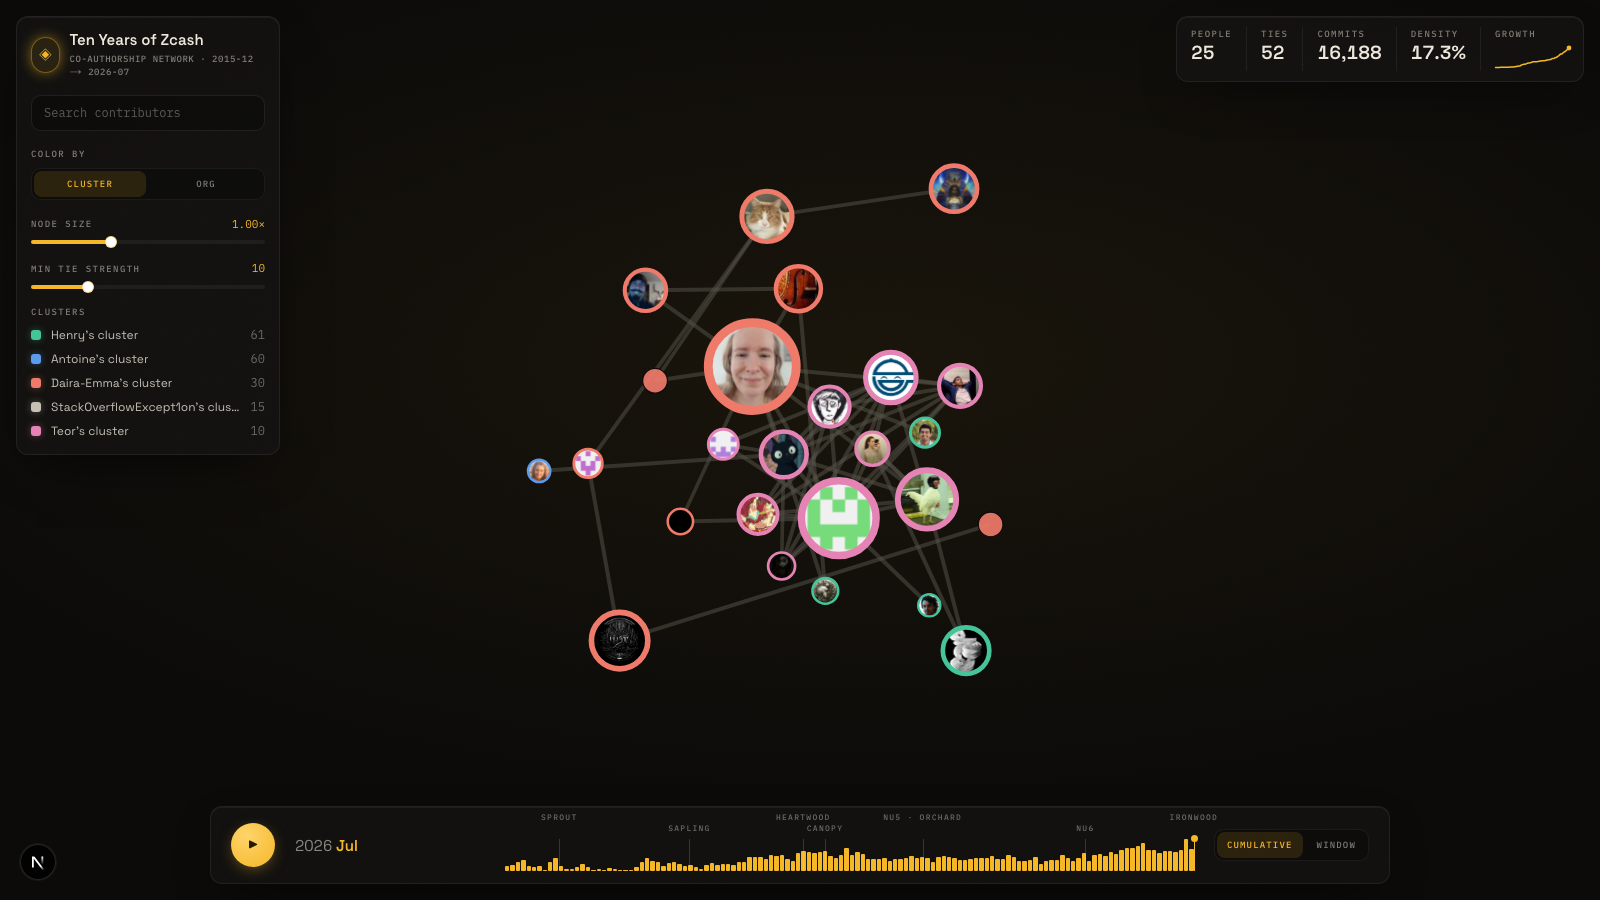
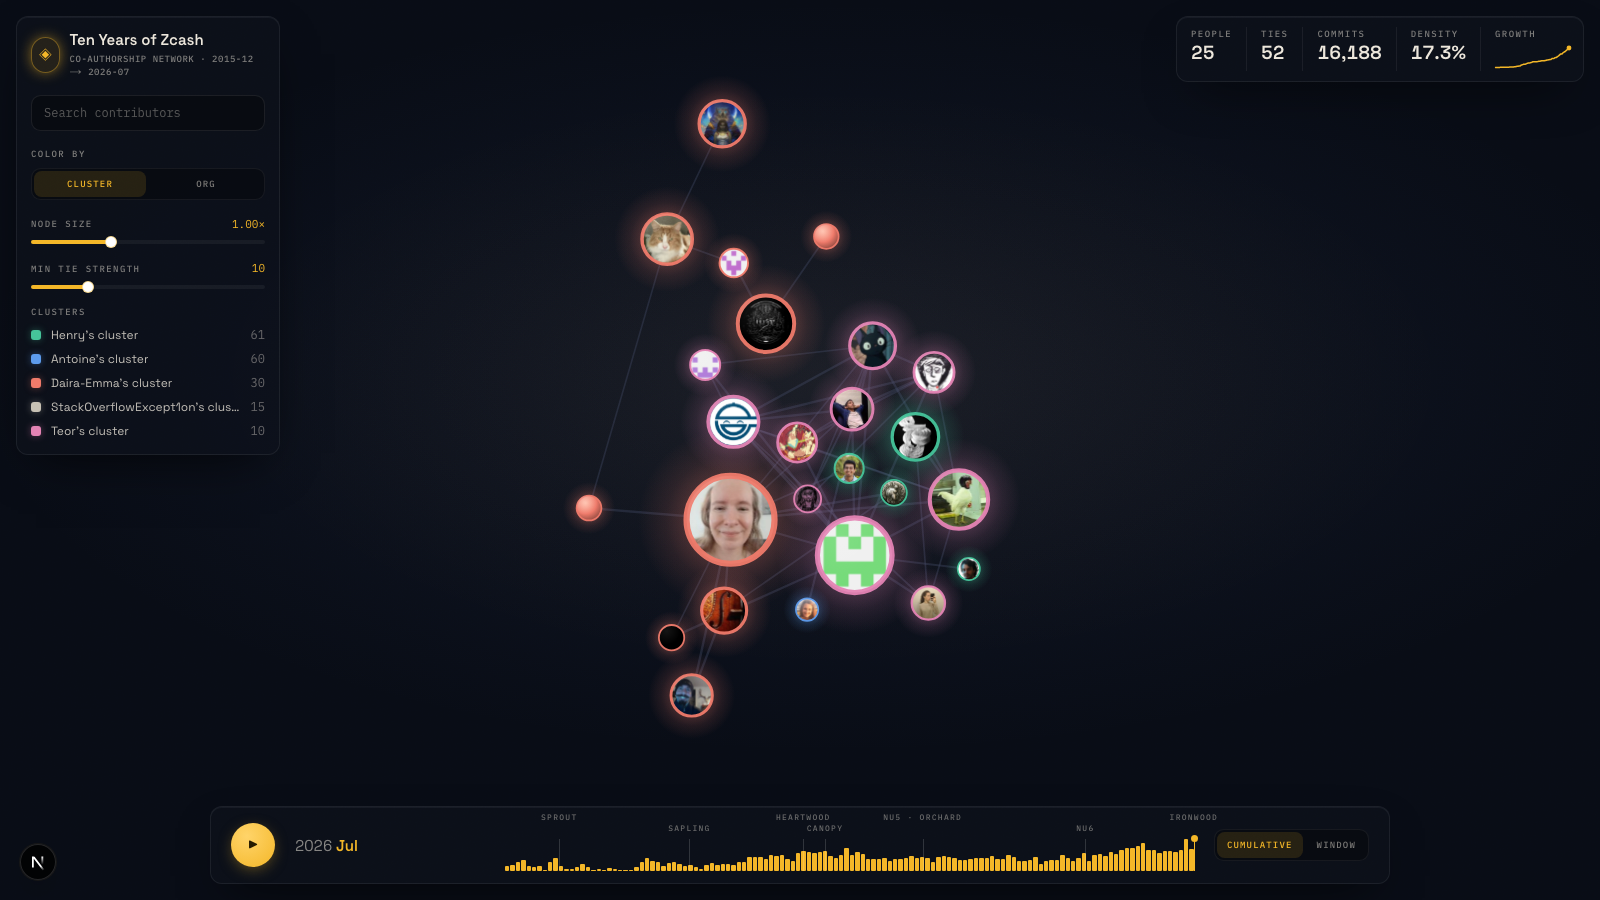
style(viz): Bubblemaps-inspired glossy spheres + navy cosmic field
Nodes render as glossy translucent spheres with colored glow halos and a sheen
(avatars kept, ringed + glowing in cluster color); deep-navy background; faint
thin connectors. Takes high inspiration from bubblemaps.io while retaining the
contributor avatars and gold chrome.

Changed region(s): [[0.3125, 0.1867, 0.6562, 0.8089], [0.4062, 0.0933, 0.5, 0.1867]]

diff --git a/projects/Giri-Aayush/web-next/src/components/GraphCanvas.tsx b/projects/Giri-Aayush/web-next/src/components/GraphCanvas.tsx
@@ -30,8 +30,12 @@ export default function GraphCanvas() {
     svg.attr("viewBox", `0 0 ${rect.width} ${rect.height}`);
 
     const defs = svg.append("defs");
+    // reusable glossy sheen (white top-left highlight) for sphere bubbles
+    const sheen = defs.append("radialGradient").attr("id", "sheen").attr("cx", "34%").attr("cy", "28%").attr("r", "62%");
+    sheen.append("stop").attr("offset", "0%").attr("stop-color", "#ffffff").attr("stop-opacity", 0.5);
+    sheen.append("stop").attr("offset", "100%").attr("stop-color", "#ffffff").attr("stop-opacity", 0);
     const zoomG = svg.append("g");
-    const gLink = zoomG.append("g").attr("stroke", "#55534a");
+    const gLink = zoomG.append("g").attr("stroke", "#4a5573");
     const gNode = zoomG.append("g");
 
     const zoom = d3
@@ -105,6 +109,25 @@ export default function GraphCanvas() {
     return `url(#${pid})`;
   }
 
+  // Bubblemaps-style glossy sphere + colored glow halo, one gradient pair per color
+  function grads(color: string) {
+    const { defs, patterns } = refs.current;
+    const key = "g" + color.replace(/\W/g, "");
+    if (!patterns.has(key)) {
+      patterns.add(key);
+      const glow = defs.append("radialGradient").attr("id", "glow" + key);
+      glow.append("stop").attr("offset", "0%").attr("stop-color", color).attr("stop-opacity", 0.6);
+      glow.append("stop").attr("offset", "70%").attr("stop-color", color).attr("stop-opacity", 0.12);
+      glow.append("stop").attr("offset", "100%").attr("stop-color", color).attr("stop-opacity", 0);
+      const c = d3.color(color)!;
+      const sph = defs.append("radialGradient").attr("id", "sph" + key).attr("cx", "36%").attr("cy", "30%").attr("r", "75%");
+      sph.append("stop").attr("offset", "0%").attr("stop-color", String(c.brighter(1.1)));
+      sph.append("stop").attr("offset", "58%").attr("stop-color", color);
+      sph.append("stop").attr("offset", "100%").attr("stop-color", String(c.darker(1.4)));
+    }
+    return { glow: `url(#glow${key})`, sphere: `url(#sph${key})` };
+  }
+
   function visible() {
     const st = useViz.getState();
     const nodes: GNode[] = [];
@@ -165,14 +188,17 @@ export default function GraphCanvas() {
         (u: any) => u,
         (exit: any) => exit.remove()
       )
-      .attr("stroke-width", (l: GLink) => Math.min(4, 0.5 + Math.sqrt(l.w!)));
+      .attr("stroke-opacity", 0.32)
+      .attr("stroke-width", (l: GLink) => Math.min(2.4, 0.35 + Math.sqrt(l.w!) * 0.4));
 
     const nodeSel = gNode.selectAll<SVGGElement, GNode>("g.node")
       .data(nodes, (n: any) => n.id)
       .join(
         (enter: any) => {
           const g = enter.append("g").attr("class", "node").style("cursor", "pointer");
-          g.append("circle").attr("stroke", "#0c0b0a").attr("stroke-width", 1.2);
+          g.append("circle").attr("class", "halo").attr("pointer-events", "none");   // colored glow
+          g.append("circle").attr("class", "body");                                   // sphere / avatar
+          g.append("circle").attr("class", "sheen").attr("pointer-events", "none");    // glossy highlight
           g.call(drag());
           g.on("mouseenter", (_e: any, n: GNode) => { useViz.getState().set("hovered", n.id); if (!useViz.getState().selected) applyHighlight(n.id); })
             .on("mouseleave", () => { useViz.getState().set("hovered", null); if (!useViz.getState().selected) applyHighlight(null); })
@@ -182,12 +208,23 @@ export default function GraphCanvas() {
         (u: any) => u,
         (exit: any) => exit.remove()
       );
-    nodeSel.select("circle")
+    nodeSel.select("circle.halo")
+      .attr("r", (n: GNode) => n.r! * 2.1)
+      .attr("fill", (n: GNode) => grads(color(n)).glow)
+      .attr("opacity", (n: GNode) => (n.is_bot ? 0.25 : 0.9));
+    nodeSel.select("circle.body")
       .attr("r", (n: GNode) => n.r!)
-      .attr("fill", (n: GNode) => (n.avatar ? avatarFill(n) : color(n)))
-      .attr("fill-opacity", (n: GNode) => (n.is_bot ? 0.5 : n.avatar ? 1 : 0.92))
-      .attr("stroke", (n: GNode) => (n.avatar ? color(n) : "#0c0b0a"))
-      .attr("stroke-width", (n: GNode) => (n.avatar ? Math.max(1.6, n.r! * 0.2) : 1.2));
+      .attr("fill", (n: GNode) => (n.avatar ? avatarFill(n) : grads(color(n)).sphere))
+      .attr("fill-opacity", (n: GNode) => (n.is_bot ? 0.45 : 1))
+      .attr("stroke", (n: GNode) => color(n))
+      .attr("stroke-opacity", 0.95)
+      .attr("stroke-width", (n: GNode) => Math.max(1.4, n.r! * 0.14));
+    nodeSel.select("circle.sheen")
+      .attr("r", (n: GNode) => n.r! * 0.86)
+      .attr("cx", (n: GNode) => -n.r! * 0.12)
+      .attr("cy", (n: GNode) => -n.r! * 0.14)
+      .attr("fill", "url(#sheen)")
+      .attr("opacity", (n: GNode) => (n.avatar ? 0.16 : 0.5));
 
     refs.current.svg.on("click", () => useViz.getState().set("selected", null));
 
@@ -210,18 +247,21 @@ export default function GraphCanvas() {
   function applyHighlight(id: string | null) {
     const { gNode, gLink } = refs.current;
     gNode.selectAll<SVGGElement, GNode>("g.node").selectAll("text.lbl").remove();
+    const cm = buildColorModel(data!.nodes, useViz.getState().colorBy);
     if (!id) {
       gNode.selectAll<SVGGElement, GNode>("g.node").style("opacity", 1);
-      gNode.selectAll("circle").attr("stroke-width", (n: any) => (n.avatar ? Math.max(1.6, n.r * 0.2) : 1.2)).attr("stroke", (n: any) => (n.avatar ? buildColorModel(data!.nodes, useViz.getState().colorBy).color(n) : "#0c0b0a"));
-      gLink.selectAll("line").attr("stroke-opacity", 0.5);
+      gNode.selectAll<SVGCircleElement, GNode>("circle.body")
+        .attr("stroke", (n) => cm.color(n)).attr("stroke-opacity", 0.95)
+        .attr("stroke-width", (n) => Math.max(1.4, n.r! * 0.14));
+      gLink.selectAll("line").attr("stroke-opacity", 0.32);
       return;
     }
     const w = neighborWeights(id);
     const keep = new Set(w.keys()); keep.add(id);
-    gNode.selectAll<SVGGElement, GNode>("g.node").style("opacity", (n) => (keep.has(n.id) ? 1 : 0.12));
+    gNode.selectAll<SVGGElement, GNode>("g.node").style("opacity", (n) => (keep.has(n.id) ? 1 : 0.1));
     gNode.selectAll<SVGGElement, GNode>("g.node").filter((n) => n.id === id)
-      .select("circle").attr("stroke", "#ede7dc").attr("stroke-width", 2);
-    gLink.selectAll<SVGLineElement, GLink>("line").attr("stroke-opacity", (l) => (l.s === id || l.t === id ? 0.55 : 0.04));
+      .select("circle.body").attr("stroke", "#ffffff").attr("stroke-opacity", 1).attr("stroke-width", (n) => Math.max(2, n.r! * 0.16));
+    gLink.selectAll<SVGLineElement, GLink>("line").attr("stroke-opacity", (l) => (l.s === id || l.t === id ? 0.6 : 0.03));
     const top = [...w.entries()].sort((a, b) => b[1] - a[1]).slice(0, 12).map((d) => d[0]);
     const labels = new Set(top); labels.add(id);
     gNode.selectAll<SVGGElement, GNode>("g.node").filter((n) => labels.has(n.id))

diff --git a/projects/Giri-Aayush/web-next/src/app/globals.css b/projects/Giri-Aayush/web-next/src/app/globals.css
@@ -37,11 +37,11 @@
 
 /* ── Ten Years of Zcash — instrument design system ── */
 :root {
-  --canvas: #0c0b0a;
+  --canvas: #090d16;
   --gold: #f4b728;
   --hairline: rgba(255, 255, 255, 0.07);
 
-  --background: #0c0b0a;
+  --background: #090d16;
   --foreground: #ede7dc;
   --card: rgba(20, 19, 18, 0.8);
   --card-foreground: #ede7dc;
@@ -77,7 +77,7 @@
 @layer utilities {
   /* floating glass panel — the signature surface */
   .glass {
-    background: rgba(20, 19, 18, 0.8);
+    background: rgba(13, 17, 27, 0.72);
     border: 1px solid var(--hairline);
     border-radius: 12px;
     backdrop-filter: blur(18px) saturate(1.25);

diff --git a/projects/Giri-Aayush/web-next/src/app/page.tsx b/projects/Giri-Aayush/web-next/src/app/page.tsx
@@ -18,7 +18,11 @@ export default function Home() {
       {/* ambient gold glow + grain */}
       <div
         className="pointer-events-none absolute inset-0"
-        style={{ background: "radial-gradient(120% 90% at 55% 40%, rgba(244,183,40,0.06), transparent 55%)" }}
+        style={{
+          background:
+            "radial-gradient(90% 70% at 52% 42%, rgba(90,110,180,0.10), transparent 60%)," +
+            "radial-gradient(60% 50% at 52% 42%, rgba(244,183,40,0.05), transparent 65%)",
+        }}
       />
       <div
         className="pointer-events-none absolute inset-0 z-40 opacity-[0.035] mix-blend-soft-light"
